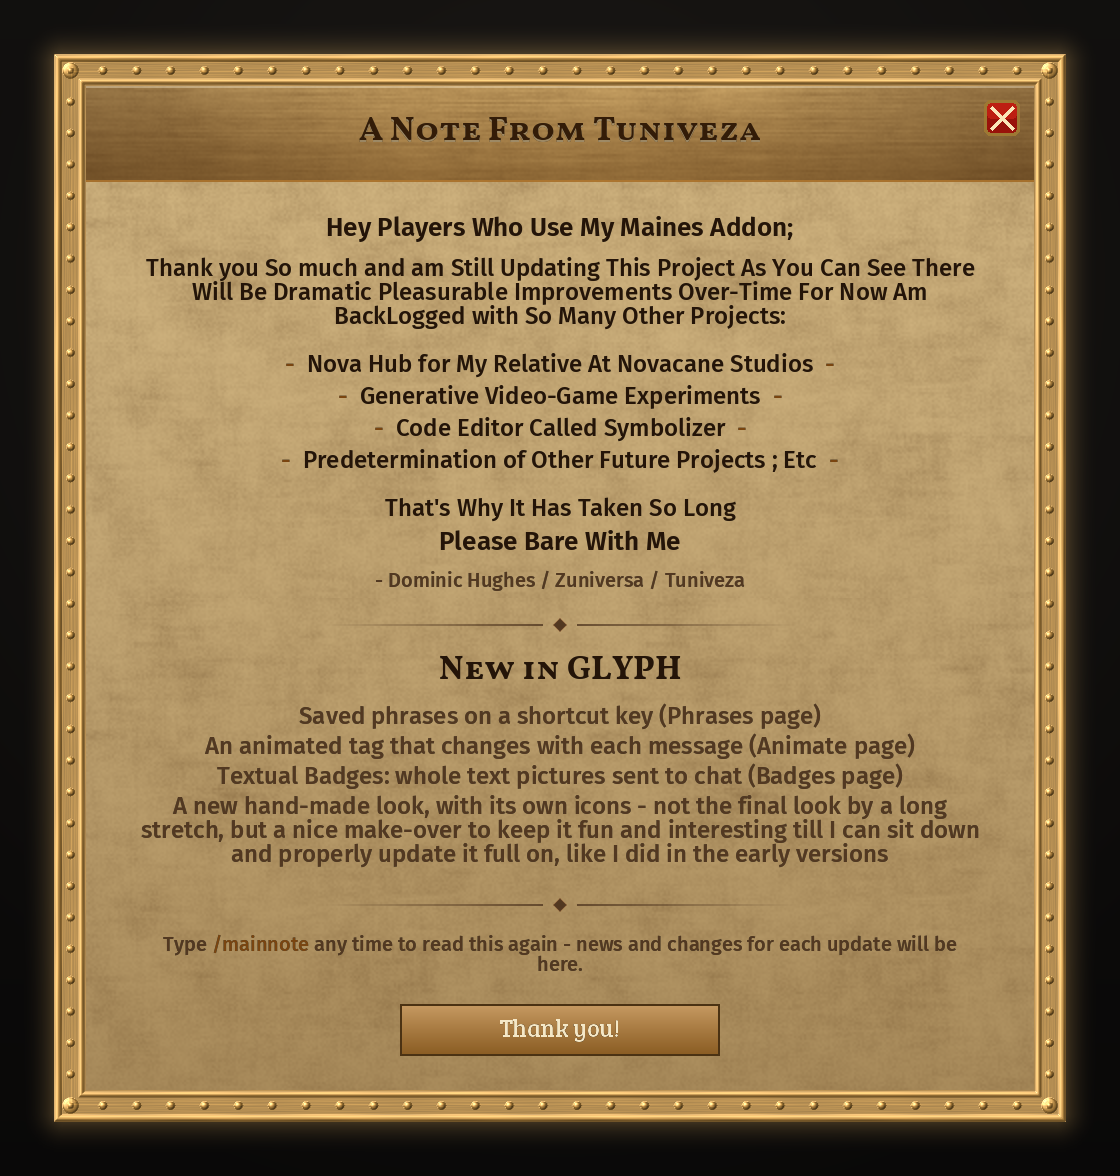
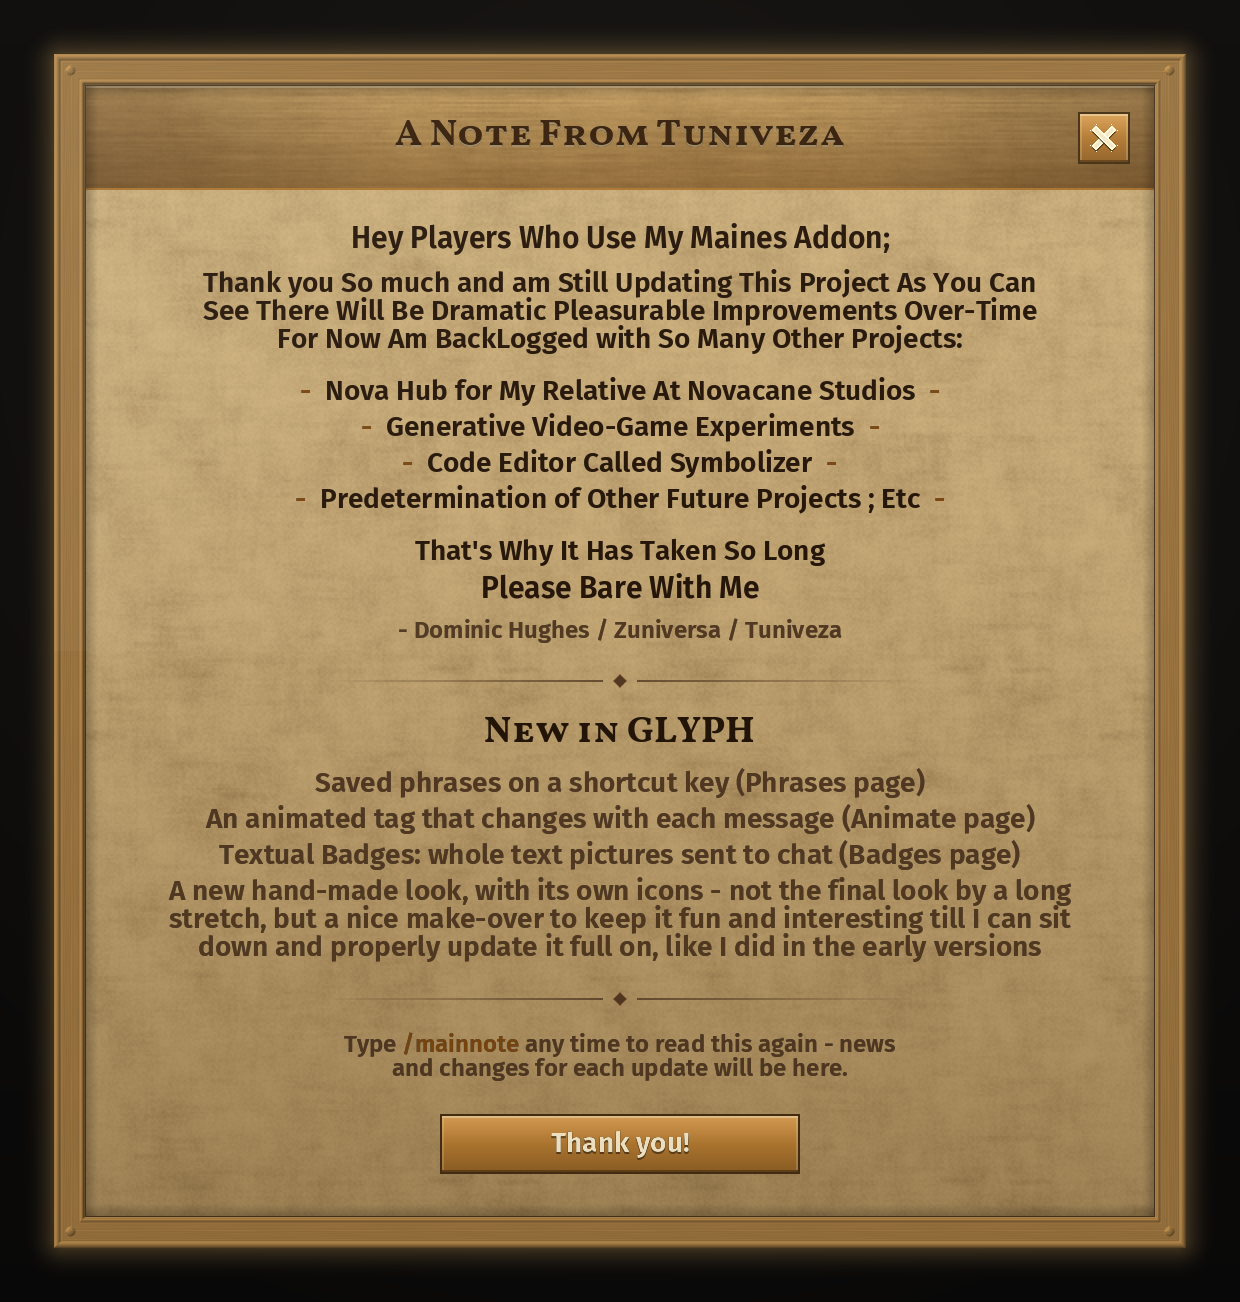
GLYPH.2: changelog, README and media for the renovation
Notes that the art was generatively assisted, not hand-drawn, and drops
the earlier "hand-made" wording.

Changed region(s): [[0.0312, 0.0306, 0.9688, 0.9796]]

diff --git a/docs/curseforge-description.html b/docs/curseforge-description.html
@@ -1,4 +1,4 @@
-<p style="text-align: center;"><img alt="Maines" src="https://raw.githubusercontent.com/tuniveza/Maines/GLYPH.1/docs/media/banner.png" /></p>
+<p style="text-align: center;"><img alt="Maines" src="https://raw.githubusercontent.com/tuniveza/Maines/GLYPH.2/docs/media/banner.png" /></p>
 <h2 style="text-align: center;">Playing an alt? Let your friends know it's you.</h2>
 <p>Maines puts your main character's name in front of everything you say in chat.</p>
 <p>Your guild sees who is really talking, whichever character you're on.</p>
@@ -13,7 +13,7 @@
 </ol>
 <p>That's it. Your tag appears on every message.</p>
 <p>On your main, Maines stays quiet, because everyone already knows it's you.</p>
-<p style="text-align: center;"><img alt="Your tag in chat, changing a little with every message" src="https://raw.githubusercontent.com/tuniveza/Maines/GLYPH.1/docs/media/tag-anim.gif" /></p>
+<p style="text-align: center;"><img alt="Your tag in chat, changing a little with every message" src="https://raw.githubusercontent.com/tuniveza/Maines/GLYPH.2/docs/media/tag-anim.gif" /></p>
 <hr />
 <h2 style="text-align: center;">What you get</h2>
 <p><strong>🏷 Your name, your style</strong>
@@ -28,12 +28,12 @@ Send a whole picture made of text: a heart, a sword, a crown, a murloc and more.
 Tag guild, party, raid, whispers, communities and more. Turn off any you don't want.</p>
 <p><strong>🎨 Paint the window</strong>
 Repaint the settings window with colours from famous paintings, or from Gnomeregan and Undermine. Each one brings its own texture and frame, and Maines remembers your pick.</p>
-<p style="text-align: center;"><img alt="The ten Textual Badges" src="https://raw.githubusercontent.com/tuniveza/Maines/GLYPH.1/docs/media/badges.png" /></p>
+<p style="text-align: center;"><img alt="The ten Textual Badges" src="https://raw.githubusercontent.com/tuniveza/Maines/GLYPH.2/docs/media/badges.png" /></p>
 <hr />
 <h2 style="text-align: center;">Prefer buttons to commands?</h2>
 <p>Type <code>/maines</code>, or click the brass <strong>M</strong> on your minimap.</p>
 <p>Everything can be done from the settings window.</p>
-<p style="text-align: center;"><img alt="The Maines settings window" src="https://raw.githubusercontent.com/tuniveza/Maines/GLYPH.1/docs/media/window-main.png" /></p>
+<p style="text-align: center;"><img alt="The Maines settings window" src="https://raw.githubusercontent.com/tuniveza/Maines/GLYPH.2/docs/media/window-main.png" /></p>
 <hr />
 <h2 style="text-align: center;">Handy commands</h2>
 <table align="center" style="margin-left: auto; margin-right: auto;">
@@ -81,4 +81,4 @@ Never. Maines only adds your tag to messages you send yourself.</p>
 <hr />
 <p>Made by <strong>Zuniversa / Tuniveza</strong>, EU Silvermoon. Say hi in game: you'll know it's me.</p>
 <p>Found a bug or have an idea? <a href="https://github.com/tuniveza/Maines/issues">Tell me on GitHub</a>.</p>
-<p style="text-align: center;"><sub>Fonts: New Rocker, Vollkorn SC, Fira Sans (SIL Open Font License) · Libraries: Ace3, LibDBIcon</sub></p>
+<p style="text-align: center;"><sub>The icons, textures and frames were made with generative assistance, not hand-drawn. · Fonts: New Rocker, Vollkorn SC, Fira Sans (SIL Open Font License) · Libraries: Ace3, LibDBIcon</sub></p>

diff --git a/CHANGELOG.md b/CHANGELOG.md
@@ -1,10 +1,41 @@
+# GLYPH.2
+
+Another small revision of GLYPH: the window gets a proper renovation.
+
+### Changed
+
+- **Bigger, thicker text.** Every page uses medium-sized, heavier text, with even spacing and margins throughout. The window is a little larger to fit it.
+- **New buttons.** Bigger, bevelled buttons with clear hover and pressed looks, in a bold font. The text boxes use the same bold font.
+- **Maines' own close button** instead of WoW's red X. Escape still closes the window.
+- **A status line.** What Maines tells you in chat (like your new bracket) now also shows in colour at the bottom of the window.
+- **Matching frames.** Each palette's border is now made of the same material as the title bar, and a soft sheen lies over the whole window.
+- **Textured bars.** The tab bar, status line and footer take the palette's colour and texture instead of plain dark bars.
+- **Sharper icons.** The tab icons are bigger, high-resolution and drawn without a dark box behind them.
+- The subtitle under the title is gone, and the footer text is centred.
+
+### Fixed
+
+- The minimap button showed a dark gap inside its gold ring. The logo now fills it.
+
+*Yo, I went back and gave Maines a flavourful renovation; it looks more cohesive and consistent.*
+
+*This is still ; hehe*
+
+*Not the Final Look By A Long Stretch.*
+
+*Moving on from that; hope it looks more pleasantry.*
+
+*See you for the next revision or major update.*
+
+*This was generatively assisted; it was not hand-drawn by me.*
+
 # GLYPH.1
 
 A small revision of GLYPH: mostly a fresh coat of paint.
 
 ### Changed
 
-- **New icons.** Every tab has a new hand-made icon in a painted, square style. The tab you're on shows in full colour.
+- **New icons.** Every tab has a new icon in a painted, square style. The tab you're on shows in full colour.
 - **New fonts.** Thicker, easier-to-read text, with a different font for titles, headings, text and buttons.
 - **Palettes go further.** Each `/maincolor` palette now has its own paper texture and its own window border, and it also colours the title bar, the tab bar and the footer.
 - **Your palette is remembered.** The palette you pick now stays after a `/reload` or the next login.
@@ -30,7 +61,7 @@ Updated for WoW 12.1.5.
 
 ### Changed
 
-- **New look.** The window keeps its brass-and-parchment colors, now with soft gradients, paper and brushed-brass textures, bevelled buttons, a row of tabs, a soft glow and its own hand-made icons. It's not the final look by a long stretch: just a nice make-over to keep it fun and interesting until I can sit down and properly update it, like in the early versions.
+- **New look.** The window keeps its brass-and-parchment colors, now with soft gradients, paper and brushed-brass textures, bevelled buttons, a row of tabs, a soft glow and its own icons. It's not the final look by a long stretch: just a nice make-over to keep it fun and interesting until I can sit down and properly update it, like in the early versions.
 - **Calmer motion.** The gears and minimap icon no longer spin all the time. The minimap icon turns once when you point at it, and the window fades in when it opens.
 
 # MOSAIC

diff --git a/README.md b/README.md
@@ -3,7 +3,7 @@
 </p>
 
 <p align="center">
-  <a href="https://github.com/tuniveza/Maines/releases/latest"><img src="https://img.shields.io/badge/stamp-GLYPH.1-8B5E3C" alt="Current stamp: GLYPH.1"></a>
+  <a href="https://github.com/tuniveza/Maines/releases/latest"><img src="https://img.shields.io/badge/stamp-GLYPH.2-8B5E3C" alt="Current stamp: GLYPH.2"></a>
   <img src="https://img.shields.io/badge/WoW-12.1.5%20(Midnight)-3E6E96" alt="WoW 12.1.5 (Midnight)">
   <a href="https://www.curseforge.com/wow/addons/maines"><img src="https://img.shields.io/badge/CurseForge-Maines-F16436" alt="Maines on CurseForge"></a>
   <img src="https://img.shields.io/badge/built%20on-Ace3-C9A227" alt="Built on Ace3">
@@ -51,7 +51,7 @@ Every Maines release gets a name instead of a version number, stamped like a sea
 </tr>
 <tr>
 <td>🔩 <strong>A new coat of brass</strong></td>
-<td>Painted WoW-style icons, thicker fonts, and a textured frame for every palette (new in GLYPH.1).</td>
+<td>Painted WoW-style icons, thicker fonts, and a textured frame for every palette (renovated in GLYPH.2).</td>
 </tr>
 </tbody>
 </table>
@@ -63,7 +63,7 @@ Full notes for every stamp: [CHANGELOG.md](CHANGELOG.md).
 **CurseForge app:** search for **Maines** and press Install.
 
 **By hand:**
-1. Download `Maines-GLYPH.1.zip` from the [Releases page](https://github.com/tuniveza/Maines/releases/latest).
+1. Download `Maines-GLYPH.2.zip` from the [Releases page](https://github.com/tuniveza/Maines/releases/latest).
 2. Unzip it into `World of Warcraft/_retail_/Interface/AddOns/`.
 3. You should now have a folder called `AddOns/Maines`.
 
@@ -104,7 +104,8 @@ Every page of the window does exactly what the slash commands do. Use whichever 
   </tr>
 </table>
 
-<sub>Window pictures are rendered offline from the addon's real UI code (its own layout, colours, textures and font), not captured in game.</sub>
+<sub>Window pictures are rendered offline from the addon's real UI code (its own layout, colours, textures and font), not captured in game.<br>
+The icons, textures and frames were made with generative assistance (the generators are in <code>tools/</code>); they were not hand-drawn.</sub>
 
 <h2 align="center">Saved phrases</h2>
 

diff --git a/docs/curseforge-description.md b/docs/curseforge-description.md
@@ -1,4 +1,4 @@
-![Maines](https://raw.githubusercontent.com/tuniveza/Maines/GLYPH.1/docs/media/banner.png)
+![Maines](https://raw.githubusercontent.com/tuniveza/Maines/GLYPH.2/docs/media/banner.png)
 
 ## Playing an alt? Let your friends know it's you.
 
@@ -23,7 +23,7 @@ That's it. Your tag appears on every message.
 
 On your main, Maines stays quiet, because everyone already knows it's you.
 
-![Your tag in chat, changing a little with every message](https://raw.githubusercontent.com/tuniveza/Maines/GLYPH.1/docs/media/tag-anim.gif)
+![Your tag in chat, changing a little with every message](https://raw.githubusercontent.com/tuniveza/Maines/GLYPH.2/docs/media/tag-anim.gif)
 
 ---
 
@@ -47,7 +47,7 @@ Tag guild, party, raid, whispers, communities and more. Turn off any you don't w
 **🎨 Paint the window**
 Repaint the settings window with colours from famous paintings, or from Gnomeregan and Undermine. Each one brings its own texture and frame, and Maines remembers your pick.
 
-![The ten Textual Badges](https://raw.githubusercontent.com/tuniveza/Maines/GLYPH.1/docs/media/badges.png)
+![The ten Textual Badges](https://raw.githubusercontent.com/tuniveza/Maines/GLYPH.2/docs/media/badges.png)
 
 ---
 
@@ -57,7 +57,7 @@ Type `/maines`, or click the brass **M** on your minimap.
 
 Everything can be done from the settings window.
 
-![The Maines settings window](https://raw.githubusercontent.com/tuniveza/Maines/GLYPH.1/docs/media/window-main.png)
+![The Maines settings window](https://raw.githubusercontent.com/tuniveza/Maines/GLYPH.2/docs/media/window-main.png)
 
 ---
 
@@ -91,4 +91,4 @@ Made by **Zuniversa / Tuniveza**, EU Silvermoon. Say hi in game: you'll know it'
 
 Found a bug or have an idea? [Tell me on GitHub](https://github.com/tuniveza/Maines/issues).
 
-<sub>Fonts: New Rocker, Vollkorn SC, Fira Sans (SIL Open Font License) · Libraries: Ace3, LibDBIcon</sub>
+<sub>The icons, textures and frames were made with generative assistance, not hand-drawn. · Fonts: New Rocker, Vollkorn SC, Fira Sans (SIL Open Font License) · Libraries: Ace3, LibDBIcon</sub>
